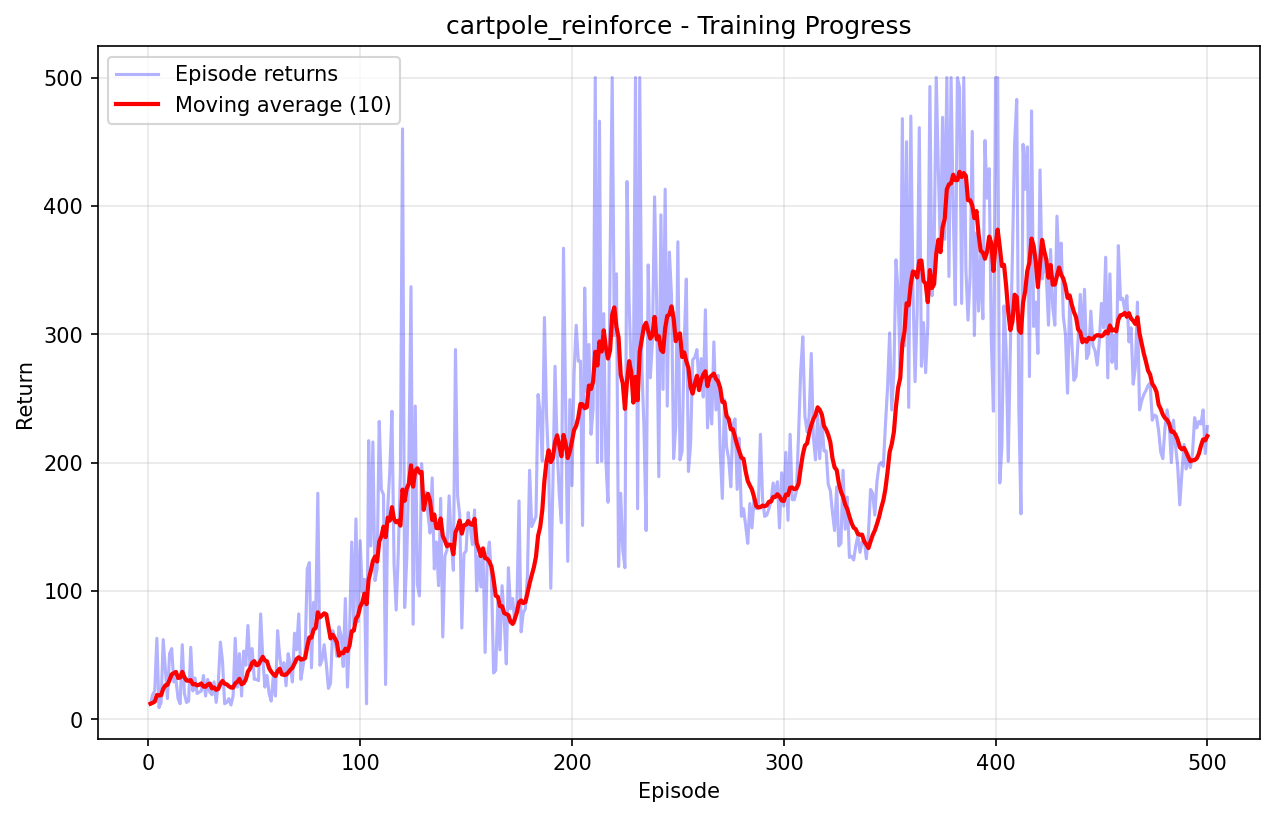
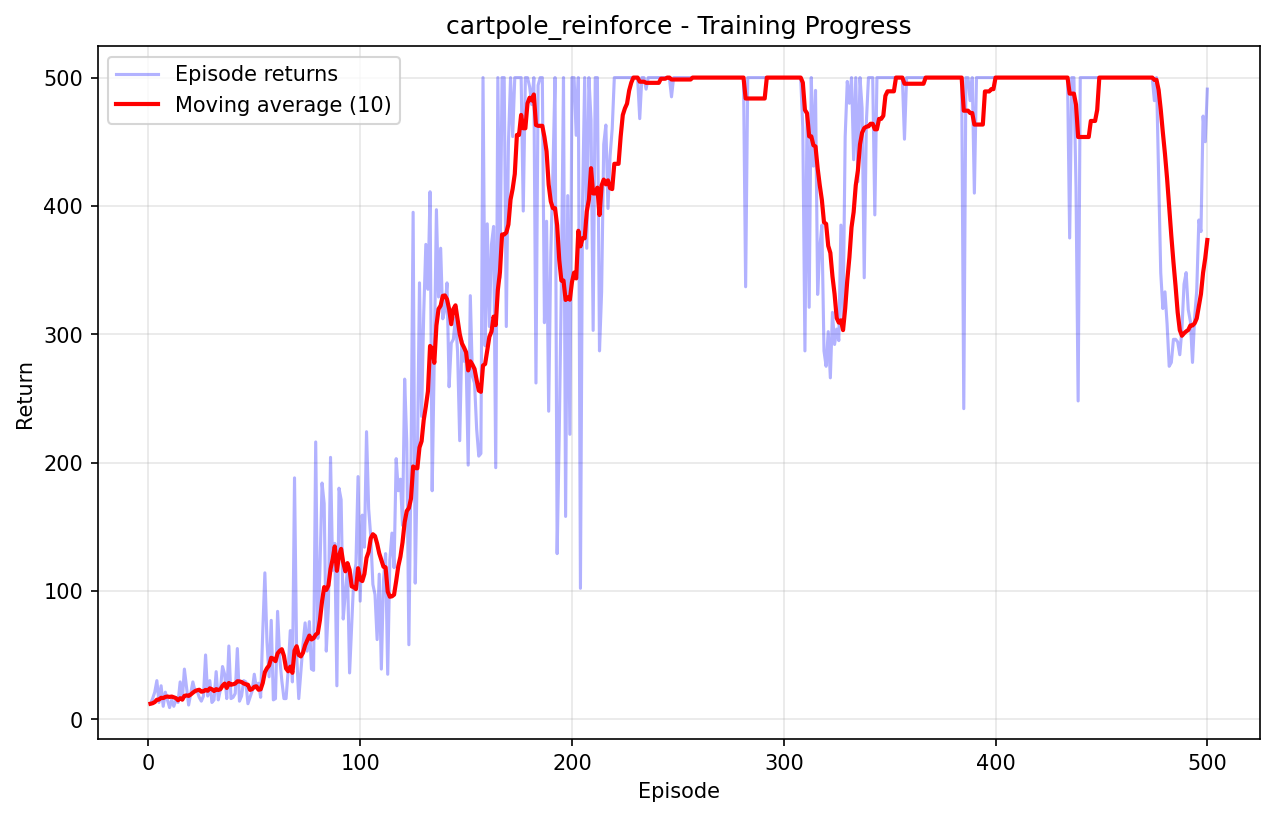
Implement REINFORCE with baseline

Changed region(s): [[0.1224, 0.0918, 0.9482, 0.8874]]

diff --git a/framework/agents/reinforce.py b/framework/agents/reinforce.py
@@ -30,6 +30,7 @@ class REINFORCEState(NamedTuple):
     episode_observations: List[Array]
     episode_actions: List[Array]
     episode_rewards: List[float]
+    baseline: float  # Moving average of episode returns for variance reduction
 
 
 class REINFORCEAgent(AgentABC):
@@ -50,6 +51,7 @@ class REINFORCEAgent(AgentABC):
         action_space: gym.Space,
         learning_rate: float = 1e-3,
         gamma: float = 0.99,
+        baseline_alpha: float = 0.01,
         seed: int = 0
     ):
         """
@@ -61,11 +63,13 @@ class REINFORCEAgent(AgentABC):
             action_space: Environment action space  
             learning_rate: Step size for gradient updates
             gamma: Discount factor for future rewards
+            baseline_alpha: Exponential moving average coefficient for baseline update
             seed: Random seed for parameter initialization
         """
         self.policy = policy
         self.learning_rate = learning_rate
         self.gamma = gamma
+        self.baseline_alpha = baseline_alpha
         self.observation_space = observation_space
         self.action_space = action_space
         
@@ -83,7 +87,8 @@ class REINFORCEAgent(AgentABC):
             opt_state=opt_state,
             episode_observations=[],
             episode_actions=[],
-            episode_rewards=[]
+            episode_rewards=[],
+            baseline=0.0
         )
     
     def select_action(self, state: REINFORCEState, observation: Array, key: Array) -> Tuple[Array, REINFORCEState]:
@@ -147,14 +152,15 @@ class REINFORCEAgent(AgentABC):
         
         # Only update when episode is complete
         if done:
-            # Update policy and clear buffers for next episode
-            updated_params, updated_opt_state = self._update_policy(new_state)
+            # Update policy and baseline, then clear buffers for next episode
+            updated_params, updated_opt_state, updated_baseline = self._update_policy(new_state)
             return REINFORCEState(
                 policy_params=updated_params,
                 opt_state=updated_opt_state,
                 episode_observations=[],
                 episode_actions=[],
-                episode_rewards=[]
+                episode_rewards=[],
+                baseline=updated_baseline
             )
         else:
             return new_state
@@ -200,36 +206,34 @@ class REINFORCEAgent(AgentABC):
         # Reverse returns back to chronological order
         return returns[::-1]
     
-    def _update_policy(self, state: REINFORCEState) -> Tuple[Any, Any]:
+    def _update_policy(self, state: REINFORCEState) -> Tuple[Any, Any, float]:
         """
-        Update policy parameters using REINFORCE gradient estimator.
+        Update policy parameters using REINFORCE gradient estimator with baseline.
         
-        The REINFORCE gradient is:
-        ∇J(θ) = E[∑_t ∇log π(a_t|s_t; θ) * G_t]
+        The REINFORCE gradient with baseline is:
+        ∇J(θ) = E[∑_t ∇log π(a_t|s_t; θ) * (G_t - b)]
         
-        Where G_t is the return from timestep t.
+        Where G_t is the return from timestep t and b is the baseline.
         
         Args:
             state: Current agent state
             
         Returns:
-            Tuple of (updated_policy_params, updated_opt_state)
+            Tuple of (updated_policy_params, updated_opt_state, updated_baseline)
         """
         # Compute returns for all timesteps
         returns = self._compute_returns(state)
+        
+        # Update baseline using exponential moving average of episode return
+        episode_return = returns[0]  # Return from episode start
+        updated_baseline = (1 - self.baseline_alpha) * state.baseline + self.baseline_alpha * episode_return
         
         # Convert episode data to JAX arrays
         observations = jnp.stack(state.episode_observations)
         actions = jnp.stack(state.episode_actions)
         
-        # Normalize returns for stability
-        # Only normalize if we have variance to avoid numerical issues
-        returns_std = jnp.std(returns)
-        if returns_std > 1e-8:
-            returns = (returns - jnp.mean(returns)) / returns_std
-        else:
-            # If all returns are the same, center them at zero
-            returns = returns - jnp.mean(returns)
+        # Compute advantages by subtracting baseline from returns
+        advantages = returns - state.baseline
         
         # Define loss function for policy gradient
         def policy_loss(params):
@@ -244,9 +248,9 @@ class REINFORCEAgent(AgentABC):
                 lambda obs, act: self.policy.get_log_prob(params, obs, act)
             )(observations, actions)
             
-            # REINFORCE loss: -log_prob * return
+            # REINFORCE loss with baseline: -log_prob * advantage
             # Negative because we want to maximize returns (minimize negative returns)
-            loss = -jnp.mean(log_probs * returns)
+            loss = -jnp.mean(log_probs * advantages)
             return loss
         
         # Compute gradients
@@ -256,4 +260,4 @@ class REINFORCEAgent(AgentABC):
         updates, new_opt_state = self.optimizer.update(grads, state.opt_state)
         new_policy_params = optax.apply_updates(state.policy_params, updates)
         
-        return new_policy_params, new_opt_state
+        return new_policy_params, new_opt_state, updated_baseline

diff --git a/experiments/cartpole_reinforce.py b/experiments/cartpole_reinforce.py
@@ -24,6 +24,7 @@ def main():
     num_episodes = 500
     learning_rate = 1e-3
     gamma = 0.99
+    baseline_alpha = 0.01
     hidden_dims = [64, 64]
     backbone_output_dim = 32
     
@@ -42,6 +43,7 @@ def main():
         action_space=env.action_space,
         learning_rate=learning_rate,
         gamma=gamma,
+        baseline_alpha=baseline_alpha,
         seed=seed
     )
     
@@ -61,6 +63,7 @@ def main():
     print(f"Episodes: {num_episodes}")
     print(f"Learning rate: {learning_rate}")
     print(f"Discount factor: {gamma}")
+    print(f"Baseline alpha: {baseline_alpha}")
     print(f"Policy architecture: MLP({hidden_dims}) -> {backbone_output_dim} -> DiscreteHead(2)")
     print()
     

diff --git a/tests/test_reinforce.py b/tests/test_reinforce.py
@@ -132,10 +132,11 @@ class TestREINFORCEAgent:
         test_state = agent.state._replace(
             episode_rewards=[1.0, 1.0, 1.0],
             episode_observations=[jnp.array([0.1, 0.2, 0.3, 0.4]) for _ in range(3)],
-            episode_actions=[jnp.array([0]) for _ in range(3)]
+            episode_actions=[jnp.array([0]) for _ in range(3)],
+            baseline=0.0
         )
         
-        updated_params, updated_opt_state = agent._update_policy(test_state)
+        updated_params, updated_opt_state, updated_baseline = agent._update_policy(test_state)
         
         assert updated_params is not None
         assert updated_opt_state is not None

diff --git a/README.md b/README.md
@@ -20,3 +20,7 @@ python experiments/cartpole_reinforce.py
 - `experiments/` - Example training scripts
 - `tests/` - Unit tests
 - `results/` - Training outputs
+
+## Contributors
+
+Co-authored with Claude🤓🤖
